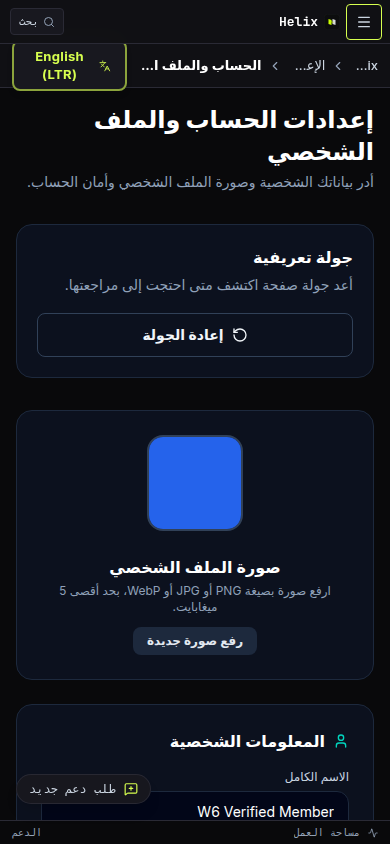
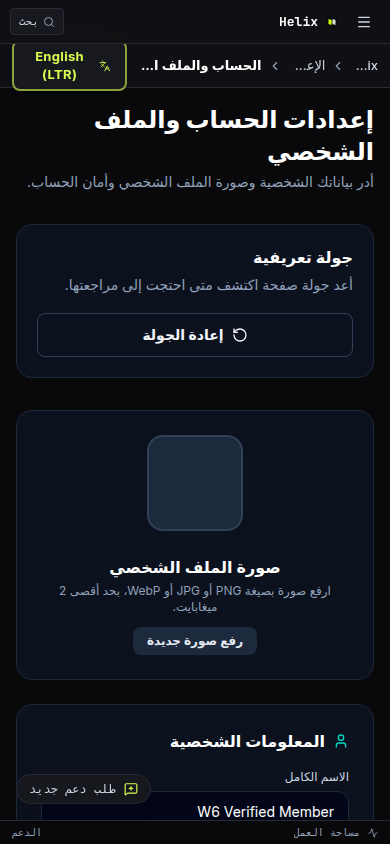
fix(profile): align shared translations and refresh final evidence

diff --git a/src/i18n/w5Product.js b/src/i18n/w5Product.js
@@ -9,7 +9,7 @@ export const w5Product = {
     changePhoto: "Change photo",
     uploadPhoto: "Upload new photo",
     uploadingPhoto: "Uploading…",
-    photoUploadGuidance: "Upload a PNG, JPG, or WebP image. Maximum size: 5 MB.",
+    photoUploadGuidance: "Upload a PNG, JPG, or WebP image. Maximum size: 2 MB.",
     personalInformation: "Personal information",
     fullName: "Full name",
     fullNamePlaceholder: "e.g. John Doe",
@@ -57,7 +57,7 @@ export const w5Product = {
     changePhoto: "تغيير الصورة",
     uploadPhoto: "رفع صورة جديدة",
     uploadingPhoto: "جارٍ الرفع…",
-    photoUploadGuidance: "ارفع صورة بصيغة PNG أو JPG أو WebP، بحد أقصى 5 ميغابايت.",
+    photoUploadGuidance: "ارفع صورة بصيغة PNG أو JPG أو WebP، بحد أقصى 2 ميغابايت.",
     personalInformation: "المعلومات الشخصية",
     fullName: "الاسم الكامل",
     fullNamePlaceholder: "مثال: أحمد محمد",

diff --git a/src/pages/__tests__/member-profile-locale.w6.test.jsx b/src/pages/__tests__/member-profile-locale.w6.test.jsx
@@ -2,6 +2,7 @@ import React from "react"
 import { afterEach, beforeEach, describe, expect, it, vi } from "vitest"
 import { cleanup, fireEvent, render, screen, waitFor } from "@testing-library/react"
 import { MemoryRouter } from "react-router-dom"
+import { w5Product } from "@/i18n/w5Product"
 
 const fixtures = vi.hoisted(() => ({
   lang: "en",
@@ -126,6 +127,8 @@ describe("member profile localization", () => {
   it("describes the API avatar upload limit in both languages", () => {
     expect(getMemberMessage("en", "photoUploadGuidance")).toContain("2 MB")
     expect(getMemberMessage("ar", "photoUploadGuidance")).toContain("2 ميغابايت")
+    expect(w5Product.en.photoUploadGuidance).toContain("2 MB")
+    expect(w5Product.ar.photoUploadGuidance).toContain("2 ميغابايت")
   })
 
   it("does not claim a password change or sign out when the server rejects the update", async () => {

diff --git a/docs/w6/README.md b/docs/w6/README.md
@@ -60,9 +60,9 @@ Raw bytes / gzip-9 bytes (gzip summed per emitted JS chunk; not a measured netwo
 
 | Measure | W5 baseline | W6 final application build |
 | --- | ---: | ---: |
-| Entry JS | 508,269 / 155,971 | **490,270 / 152,019** |
-| Initial Discover static graph | 598,370 / 186,214 | **583,116 / 184,115** |
-| All emitted JS | 1,372,079 / 414,975 | **1,289,299 / 401,234** |
+| Entry JS | 508,269 / 155,971 | **490,270 / 152,022** |
+| Initial Discover static graph | 598,370 / 186,214 | **583,116 / 184,107** |
+| All emitted JS | 1,372,079 / 414,975 | **1,289,299 / 401,145** |
 
 [Machine-readable measurement](evidence/bundles-final.json). The final build emits no >500 kB chunk warning. The entry remains substantial; this is a measured incremental split, not a claim of optimal performance.
 
